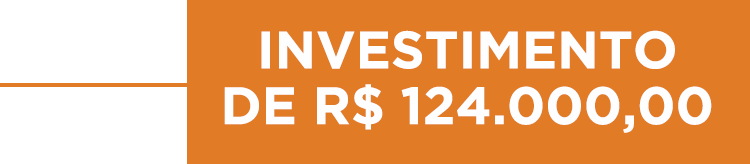
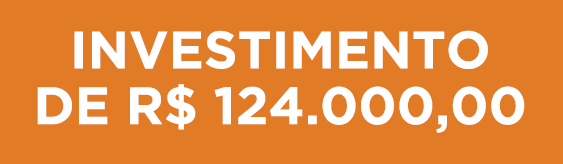
atualização da seção - etapas da campanha

diff --git a/index.html b/index.html
@@ -123,18 +123,23 @@
     <div id="parte8">
         <div class="container pb-5">
             <div class="row py-5">
-                <div class="col-sm-11 offset-sm-1 text-sm-left text-center">
+                <div class="col-sm-11 offset-sm-1 text-sm-left text-center mb-sm-3">
                     <h1>ETAPAS DA CAMPANHA</h1>
                 </div>
             </div>
-
+            
             <!-- mobile -->
+            <div class="row d-block d-sm-none mb-5">
+                <div class="col-12 px-5">
+                    <img src="img/investimento.png" class="mx-auto d-block img-fluid" alt="">
+                </div>
+            </div>
+
             <div class="row d-block d-sm-none text-center mb-5">
                 <div class="col-4 offset-4">
                     <div class="item">1</div>
                 </div>
                 <div class="col-12"><p> outubro a novembro/21 </p></div>
-                <div class="col-12"><img src="img/investimento-mobile.png" class="img-fluid px-3" alt=""> </div>
             </div>
             <div class="row d-block d-sm-none text-center mb-5">
                 <div class="col-4 offset-4">
@@ -154,24 +159,15 @@
                 </div>
                 <div class="col-12"><p> abril a junho/22 </p></div>
             </div>
-            <div class="row d-block d-sm-none text-center mb-5">
-                <div class="col-4 offset-4">
-                    <div class="item">5</div>
-                </div>
-                <div class="col-12"><p> julho a novembro/22 </p></div>
-            </div>
+           
             <!-- ./ -->
             
             
-            <div class="row d-none d-sm-block d-sm-flex">
-                <div class="col-sm-1 offset-sm-1 mt-5"><div class="item">1</div></div>
-                <div class="col-sm-10 mt-2"><p> outubro a novembro/21 <img src="img/investimento.png" class="img-fluid w-50" alt=""> </p></div>
-            </div>
             <div class="row d-none d-sm-block d-sm-flex" style="margin-top: -65px">
-                <div class="col-sm-1 offset-sm-1">
-                    <!-- <p>
+                <div class="col-sm-1 offset-sm-1 col-md-1">
+                    <p>
                     <div class="item">1</div>
-                    </p> -->
+                    </p>
                     <p>
                     <div class="item">2</div>
                     </p>
@@ -181,16 +177,15 @@
                     <p>
                     <div class="item">4</div>
                     </p>
-                    <p>
-                    <div class="item">5</div>
-                    </p>
                 </div>
-                <div class="col-sm-10">
-                    <!-- <p> outubro a novembro/21 <img src="img/investimento.png" class="img-fluid w-50" alt=""> </p> -->
+                <div class="col-sm-4 col-md-6">
+                    <p> outubro a novembro/21 </p>
                     <p>dezembro/21 a fevereiro/22</p>
                     <p>março/22</p>
                     <p>abril a junho/22</p>
-                    <p>julho a novembro/22</p>
+                </div>
+                <div class="col-md-4 d-flex align-items-center">
+                    <img src="img/investimento.png" class="img-fluid mx-auto d-block" alt="">
                 </div>
                 
             </div>
@@ -206,7 +201,7 @@
                 <div class="col-sm-6 offset-sm-3 col-md-8 offset-md-2">
                     
                     
-                    <div class="border1">
+                    <div class="border1 pb-4">
                         <h1 class="text-center bg-meios py-1">MEIOS</h1>
                         
                         <div class="row px-sm-4 mt-4 text-center text-sm-left">
@@ -216,6 +211,7 @@
                             <div class="col-sm-9 mt-2">
                                 <h1>TELEVISÃO</h1>
                                 <p>TV Anhanguera/Globo</p>
+                                <p>A partir de 30/10</p>
                             </div>
                         </div>
                         <div class="row px-sm-4 mt-4 text-center text-sm-left">
@@ -225,6 +221,7 @@
                             <div class="col-sm-9 mt-2">
                                 <h1>RÁDIO</h1>
                                 <p>Líder FM | Alvorada FM | Veredas FM</p>
+                                <p>A partir de 29/10</p>
                             </div>
                         </div>
                         <div class="row px-sm-4 mt-4 text-center text-sm-left">
@@ -234,6 +231,7 @@
                             <div class="col-sm-9 mt-2">
                                 <h1>PLACAS DE OUTDOOR</h1>
                                 <p>Placas próprias</p>
+                                <p>A partir de 31/10</p>
                             </div>
                         </div>
                         <div class="row px-sm-4 mt-4 text-center text-sm-left">
@@ -245,6 +243,7 @@
                                 <p>Site do Blindado: para onde será direcionado
                                     o tráfego pago | Facebook Ads | Instagram Ads
                                     Linkedin Ads | Google Ads | Programática</p>
+                                    <p>A partir do dia 29/10</p>
                                 </div>
                             </div>
                             

diff --git a/css/default.css b/css/default.css
@@ -194,6 +194,10 @@ body, h1, h2{
     font-family: gothambold;
     margin: 0;
 }
+#parte9 p{
+    margin: 0;
+}
+
 .border1{
     border: 2px #d5d5d5 solid;
 }
